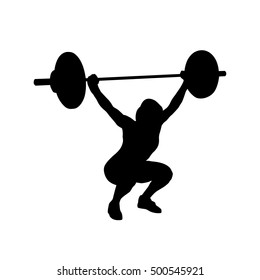
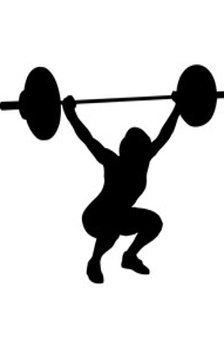
change image size for TypesOfWorkout, add logic to add to my workouts view

Changed region(s): [[0.0, 0.1714, 1.0, 0.8571], [0.2188, 0.9429, 0.7812, 1.0]]

diff --git a/workouts/templates/workouts/members_area.html b/workouts/templates/workouts/members_area.html
@@ -31,12 +31,18 @@
         {% for workout in workouts  %}
         <div class="col-3">
             <div class="card classes-card">
-                <img src="{{ MEDIA_URL }}{{workout.type_of_workout}}.jpg" class="card-img-top" alt="image of class type">
+                <img src="{{ MEDIA_URL }}{{workout.type_of_workout}}.jpg" class="card-img-top"
+                    alt="image of class type">
                 <div class="card-body">
                     <h5 class="card-title">{{ workout.title }}</h5>
                     <p class="card-text"><strong>Type: </strong>{{ workout.type_of_workout }}</p>
                     <p class="card-text"><strong>Description: </strong>{{ workout.description }}</p>
-                    <p class="card-text"><strong>Date: </strong>{{ workout.date }}</p>
+                    {% if workout.date >= today %}
+                        <strong> Date: </strong>{{ workout.date }}
+                    {% else %}
+                        <strong> Date: </strong><span class="strike">{{ workout.date }}</span>
+                        <span class="text-danger"> This class has already happened </span>
+                    {% endif %}
                     <p class="card-text"><strong>Location: </strong>{{ workout.location }}</p>
                     <p class="card-text">
                         <strong>Duration: </strong>{{ workout.duration }} Minutes
@@ -52,7 +58,10 @@
                         </a>
                     </small>
                     {% endif %}
-                    <a href="{% url 'add_to_my_workouts' workout.id %}" class="btn btn-primary mt-2">Add To My Routines</a>
+                    {% if workout.date >= today %}
+                    <a href="{% url 'add_to_my_workouts' workout.id %}" class="btn btn-primary mt-2">Add To My
+                        Routines</a>
+                    {% endif %}
                 </div>
             </div>
         </div>

diff --git a/templates/includes/toasts/toast_warning.html b/templates/includes/toasts/toast_warning.html
@@ -1,8 +1,8 @@
 <div class="toast custom-toast rounded-0 border-top-0" data-autohide="false">
     <div class="arrow-up arrow-success"></div>
-    <div class="w-100 toast-capper bg-success"></div>
+    <div class="w-100 toast-capper bg-warning"></div>
     <div class="toast-header bg-white text-dark">
-        <strong class="mr-auto">Success!</strong>
+        <strong class="mr-auto">Warning!</strong>
         <button type="button" class="ml-2 mb-1 close text-dark" data-dismiss="toast" aria-label="Close">
             <span aria-hidden="true">&times;</span>
         </button>

diff --git a/templates/includes/toasts/toast_info.html b/templates/includes/toasts/toast_info.html
@@ -1,8 +1,8 @@
 <div class="toast custom-toast rounded-0 border-top-0" data-autohide="false">
     <div class="arrow-up arrow-warning"></div>
-    <div class="w-100 toast-capper bg-warning"></div>
+    <div class="w-100 toast-capper bg-info"></div>
     <div class="toast-header bg-white text-dark">
-        <strong class="mr-auto">Warning!</strong>
+        <strong class="mr-auto">Info!</strong>
         <button type="button" class="ml-2 mb-1 close text-dark" data-dismiss="toast" aria-label="Close">
             <span aria-hidden="true">&times;</span>
         </button>

diff --git a/workouts/views.py b/workouts/views.py
@@ -14,10 +14,12 @@ def members_area(request):
     ''' loads fitness classes page '''
 
     workouts = Workout.objects.all()
+    today = date.today()
 
     template = 'workouts/members_area.html'
     context = {
-        'workouts': workouts
+        'workouts': workouts,
+        'today': today
     }
 
     return render(request, template, context)
@@ -130,13 +132,15 @@ def add_to_my_workouts(request, workout_id):
 
     workout = get_object_or_404(Workout, pk=workout_id)
     profile = get_object_or_404(UserProfile, user=request.user)
+    today = date.today()
 
-    if profile in workout.users.all():
+    if workout.date < today:
+        messages.error(request, 'Sorry, that class has already happened,'
+                       ' please choose another')
+    elif profile in workout.users.all():
         messages.success(request, 'Workout already in your workouts!')
-
     else:
         workout.users.add(profile)
-
         messages.success(request,
                          'Workout succesfully added to your workouts!')
 
